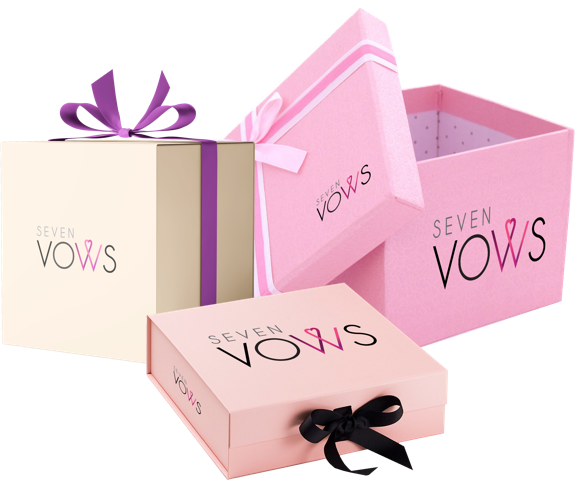
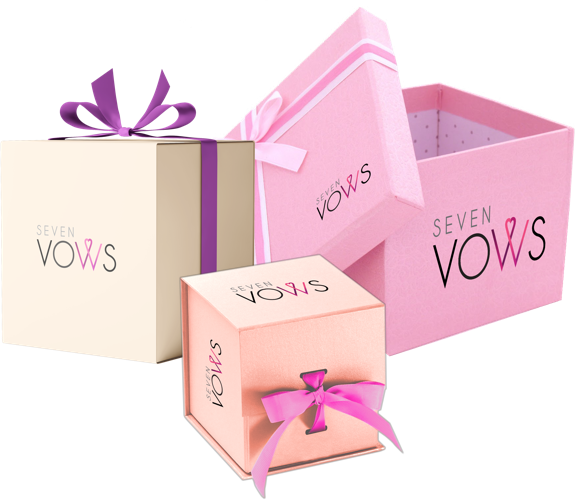
home page ui fixes

diff --git a/src/modules/home/Home.js b/src/modules/home/Home.js
@@ -123,12 +123,12 @@ class Home extends Component {
       if (section5Visible) {
         const section5Flag = document.getElementById('boxmark').getBoundingClientRect().top;
         const section5rate = section5Flag / window.innerHeight * 100;
-        const topOne = (-73 * section5rate / 100);
-        const leftOne = (25 * section5rate / 100);
-        const topTwo = (-79 * section5rate / 100);
-        const leftTwo = (-117 * section5rate / 100);
-        const topThree = (-83 * section5rate / 100);
-        const leftThree = (-164 * section5rate / 100);
+        const topOne = (-80.5 * section5rate / 100);
+        const leftOne = (56 * section5rate / 100);
+        const topTwo = (-88 * section5rate / 100);
+        const leftTwo = (-77 * section5rate / 100);
+        const topThree = (-90.3 * section5rate / 100);
+        const leftThree = (-124 * section5rate / 100);
         document.getElementById('box-one').style.transform = 'translate3d(' + leftOne + '%,' + topOne + 'rem,0px)';
         document.getElementById('box-two').style.transform = 'translate3d(' + leftTwo + '%,' + topTwo + 'rem,0px)';
         document.getElementById('box-three').style.transform = 'translate3d(' + leftThree + '%,' + topThree + 'rem,0px)';
@@ -143,9 +143,9 @@ class Home extends Component {
 
       }
       else {
-        document.getElementById('box-one').style.transform = 'translate3d(25%,-73rem,0px)';
-        document.getElementById('box-two').style.transform = 'translate3d(-117%,-79rem,0px)';
-        document.getElementById('box-three').style.transform = 'translate3d(-164%,-83rem,0px)';
+        document.getElementById('box-one').style.transform = 'translate3d(56%,-80.5rem,0px)';
+        document.getElementById('box-two').style.transform = 'translate3d(-77%,-88rem,0px)';
+        document.getElementById('box-three').style.transform = 'translate3d(-124%,-90.3rem,0px)';
         this.setState({ showDesc: false });
 
       }
@@ -379,20 +379,20 @@ class Home extends Component {
                 </Col>
               </Row>
             </div>
-            <div className={`${styles.mediumPinkBg} ${styles.boxSection} container-fluid`}>
-              <Container>
+            <div className={`${styles.mediumPinkBg}  container-fluid`}>
+              <Container className={styles.boxSection}>
                 <Row className={styles.boxMark}>
                   <Col id="boxmark"></Col></Row>
                 <Row className="mobile-col-reverse">
-                  <Col className="justify-center flex align-center mobile-column">
+                  <div className="justify-center flex align-flex-top mobile-column">
                     <img className="mobile-only" src={imagePath('packagesimage.png')} alt="img" />
                     <Button className="mobile-only primary-button home-btn white">Let’s do it</Button>
-                  </Col>
-                  <Col className={styles.dummyClass}>
-                    <h2 className={styles.whiteHeading}>Less worries.<span className="tab-only"><br /></span>More savings.</h2>
-                    <p className={styles.whiteDesc}>Choose from one of our customised packages <br />to steer clear of stress and get attractive discounts.</p>
+                  </div>
+                  <div className={styles.dummyClass}>
+                    <h2 className={styles.whiteHeading}>Less<br/>worries.<span className="tab-only"><br /></span>More<br/>savings.</h2>
+                    <p className={styles.whiteDesc}>Choose from one of our customised packages to steer clear of stress and get attractive discounts.</p>
                     <Button className="tab-only primary-button home-btn white">Let’s do it</Button>
-                  </Col>
+                  </div>
                 </Row>
                 <Row>
                   <Col id="boxend"></Col>
@@ -403,7 +403,7 @@ class Home extends Component {
               <Container className={`${styles.homeContainer}`}>
                 <Row className="mb-5" id="packages">
                   <Col className={styles.packageBox} id="box-one">
-                    <img src={imagePath('box-one.png')} alt="img" />
+                    <img src={imagePath('box-one-n.png')} alt="img" />
                     <div className={`${styles.packageDetail} ${this.state.showDesc ? styles.showDetail : ''}`}>
                       <h3>Gold</h3>
                       <p>Give your dream wedding a golden touch.<br />Here’s a complete wedding solution crafted just for you.</p>

diff --git a/src/modules/home/home.scss b/src/modules/home/home.scss
@@ -594,7 +594,7 @@ a.button {
   @extend %spacer;
   box-shadow: 6px 11px 32px 0 rgba(41, 26, 204, 0.12);
   @include desktop {
-    padding-top: 52rem;
+    padding-top: 57rem;
   }
 }
 
@@ -606,17 +606,17 @@ a.button {
   @include desktop {
     &:first-child {
       z-index: 3;
-      transform: translate3d(25%,-73rem,0px);
+      transform: translate3d(56%,-80.5rem,0px);
 
       > img {
-        width: 21rem;
+        width: 16rem;
       }
 
     }
 
     &:nth-child(2) {
       z-index: 2;
-      transform: translate3d(-117%,-79rem,0px);
+      transform: translate3d(-77%,-88rem,0px);
 
       > img {
         width: 18.5rem;
@@ -625,10 +625,10 @@ a.button {
 
     &:last-child {
       z-index: 1;
-      transform: translate3d(-164%,-83rem,0px);
+      transform: translate3d(-124%,-90.3rem,0px);
 
       > img {
-        width: 23rem;
+        width: 26.5rem;
       }
     }
   }
@@ -680,14 +680,16 @@ a.button {
   display: flex;
   align-items: center;
   position: relative;
-  padding-top: 2rem;
-
+  padding-top: 3rem;
+  width: 72rem;
+  margin: 0 auto;
+  justify-content: flex-end;
   h2 {
     line-height: .8;
   }
 
   img {
-    width: 25rem;
+    width: 41rem;
     margin: 0 auto 3rem;
   }
 }
@@ -696,7 +698,11 @@ a.button {
   align-items: flex-start;
   display: flex;
   flex-direction: column;
-  justify-content: center;
+  justify-content: flex-start;
+  padding: 1rem 0 0 3rem;
+  button {
+    margin: 0;
+  }
 }
 
 .boxMark {
@@ -1086,7 +1092,10 @@ h1.homeTitle {
 
 .whiteDesc {
   color: $white;
+  font-family: $roboto-medium;
   @include fontSize(26);
+  margin-top: 1rem;
+  width: 28rem;
   @include mobile {
     text-align: center;
     font-size: 14px;

diff --git a/src/components/Header/header.scss b/src/components/Header/header.scss
@@ -18,9 +18,7 @@
   z-index: 100;
   font-family: $roboto-regular;
   transition: 300ms all ease;
-  @include tablet {
-    background: $white;
-  }
+  background: $white;
 
   .ahNav {
     background-color: transparent !important;

diff --git a/src/styles/_base.scss b/src/styles/_base.scss
@@ -187,3 +187,6 @@ h2 {
 textarea {
   resize: none;
 }
+.align-flex-top {
+  align-items: flex-start !important;
+}
